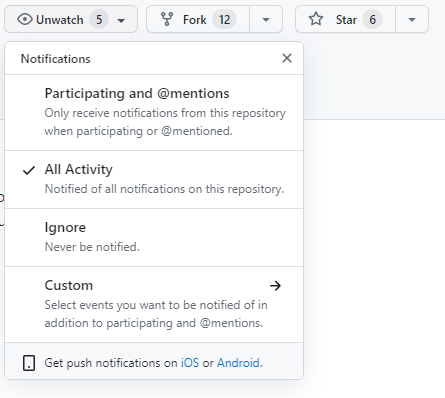
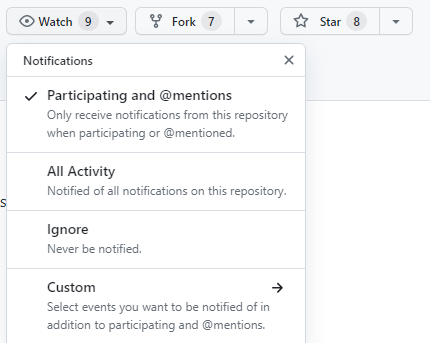
News Item 49 -- Got Comments, Suggestions, or Bug Reports?

diff --git a/NewsItems/Item_49.md b/NewsItems/Item_49.md
@@ -1,30 +1,38 @@
 
+
+
 # Thor News
 
 **Got Comments, Suggestions, or Bug Reports?** 
 ---
 
-### #49, 2023-04-06
+### #49, 2023-04-08
 
-Do you know where to go if you have questions or comments about Thor or projects available from Thor?
+Do you know where to go if you have questions, comments or bug reports for Thor or any of the projects available from Thor?
 
-> For many years we posted issues or comments on the Thor or GoFish Google Groups forums.  However, be aware those forums have been deprecated. The preferred location going forward is the Issue tabs in the GitHub repository for the project your issue relates to.
+> For many years we posted issues or comments on the Thor or GoFish Google Groups forums.  However, those forums have been deprecated. The preferred location now is the Issue tabs in the GitHub repository for the project your issue relates to.
 
 Thor provides two different ways to get to the GitHub repository for a project, both available from the Thor menu:
 
 ![](Images/ThorMenu.png)
 
-1. Item "VFPX Home Page" takes you (surprisingly!) to the VFPX home page ( http://vfpx.org ).  The Projects page there is the most used page: it lists the projects alphabetically (as a link to the home page for it) and has separate columns for a brief description, category, and status.  This list includes many VFPX projects that are not available from Thor's Check For Updates as well as some other VFP open-source projects that aren’t considered to be part of VFPX.
+1. Item "VFPX Home Page" takes you to the VFPX home page ( http://vfpx.org ).  The Projects page there is the most used page; it lists the projects alphabetically (providing a link to the home page for it) and has separate columns for a brief description, category, and status.  This list also includes many VFPX projects that are not available from Thor's Check For Updates as well as some other VFP open-source projects that aren’t considered to be part of VFPX.
 
-2. Item "Project Home Pages" opens up a mini-form of all projects that Thor can download along with their status; the project name is a link to the home page.
+2. Item "Project Home Pages" opens up a form listing all projects that Thor can download along with their status; the project name is a link to the home page.
 
-To add or review issues for a project, click on "Issues" at the upper left of the home page:
+To add or review issues for a project, click on "Issues" at the upper left of the project home page:
 
 ![](Images/GitHubProjectIssue.png)
 
-You're encouraged to watch all activity for projects you're interested in. Click on "Watch" (or it might say "Unwatch") at the upper right of the home page. You'll see some extra chatter, but it may be that you'll learn more about some projects from the comments of others.
+You're encouraged to watch activity for projects you're interested in. Click on "Watch" at the upper right of the home page. You'll receive notifications via email, enabling you to learn more from the comments of others.
 
 ![](Images/GitHubProjectWatch.png)
+
+You can also consider using the "Custom" option to filter which events you are interested in.
+
+![](Images/GitHubCustomIssues.png)
+
+
 
 ---
 

diff --git a/NewsItems/Archives.md b/NewsItems/Archives.md
@@ -1,8 +1,7 @@
 
 # Thor News Archives
 
-
-**[2023-04-09 : Go To Definition Enhancements #2 ](Item_49.md)** 
+**[2023-04-08 : Got Comments, Suggestions, or Bug Reports? ](Item_49.md)** 
 
 **[2023-02-04 : Go To Definition Enhancements ](Item_48.md)** 
 
@@ -94,5 +93,4 @@
 
 ---
 
-
-Last changed: _2023-04-03_ ![Picture](Images/vfpxpoweredby_alternative.gif)
+![Picture](Images/vfpxpoweredby_alternative.gif)

diff --git a/README.md b/README.md
@@ -30,5 +30,6 @@ News Items are accessed two different ways:
 ## Helping with this project
 See [How to contribute to ThorNews](.github/CONTRIBUTING.md) for details on how to help with this project.
 
-Last changed: _2023-04-09_ 
+Last changed: _2023-04-07_ 
+
 ![Picture](./NewsItems/Images/vfpxpoweredby_alternative.gif)
